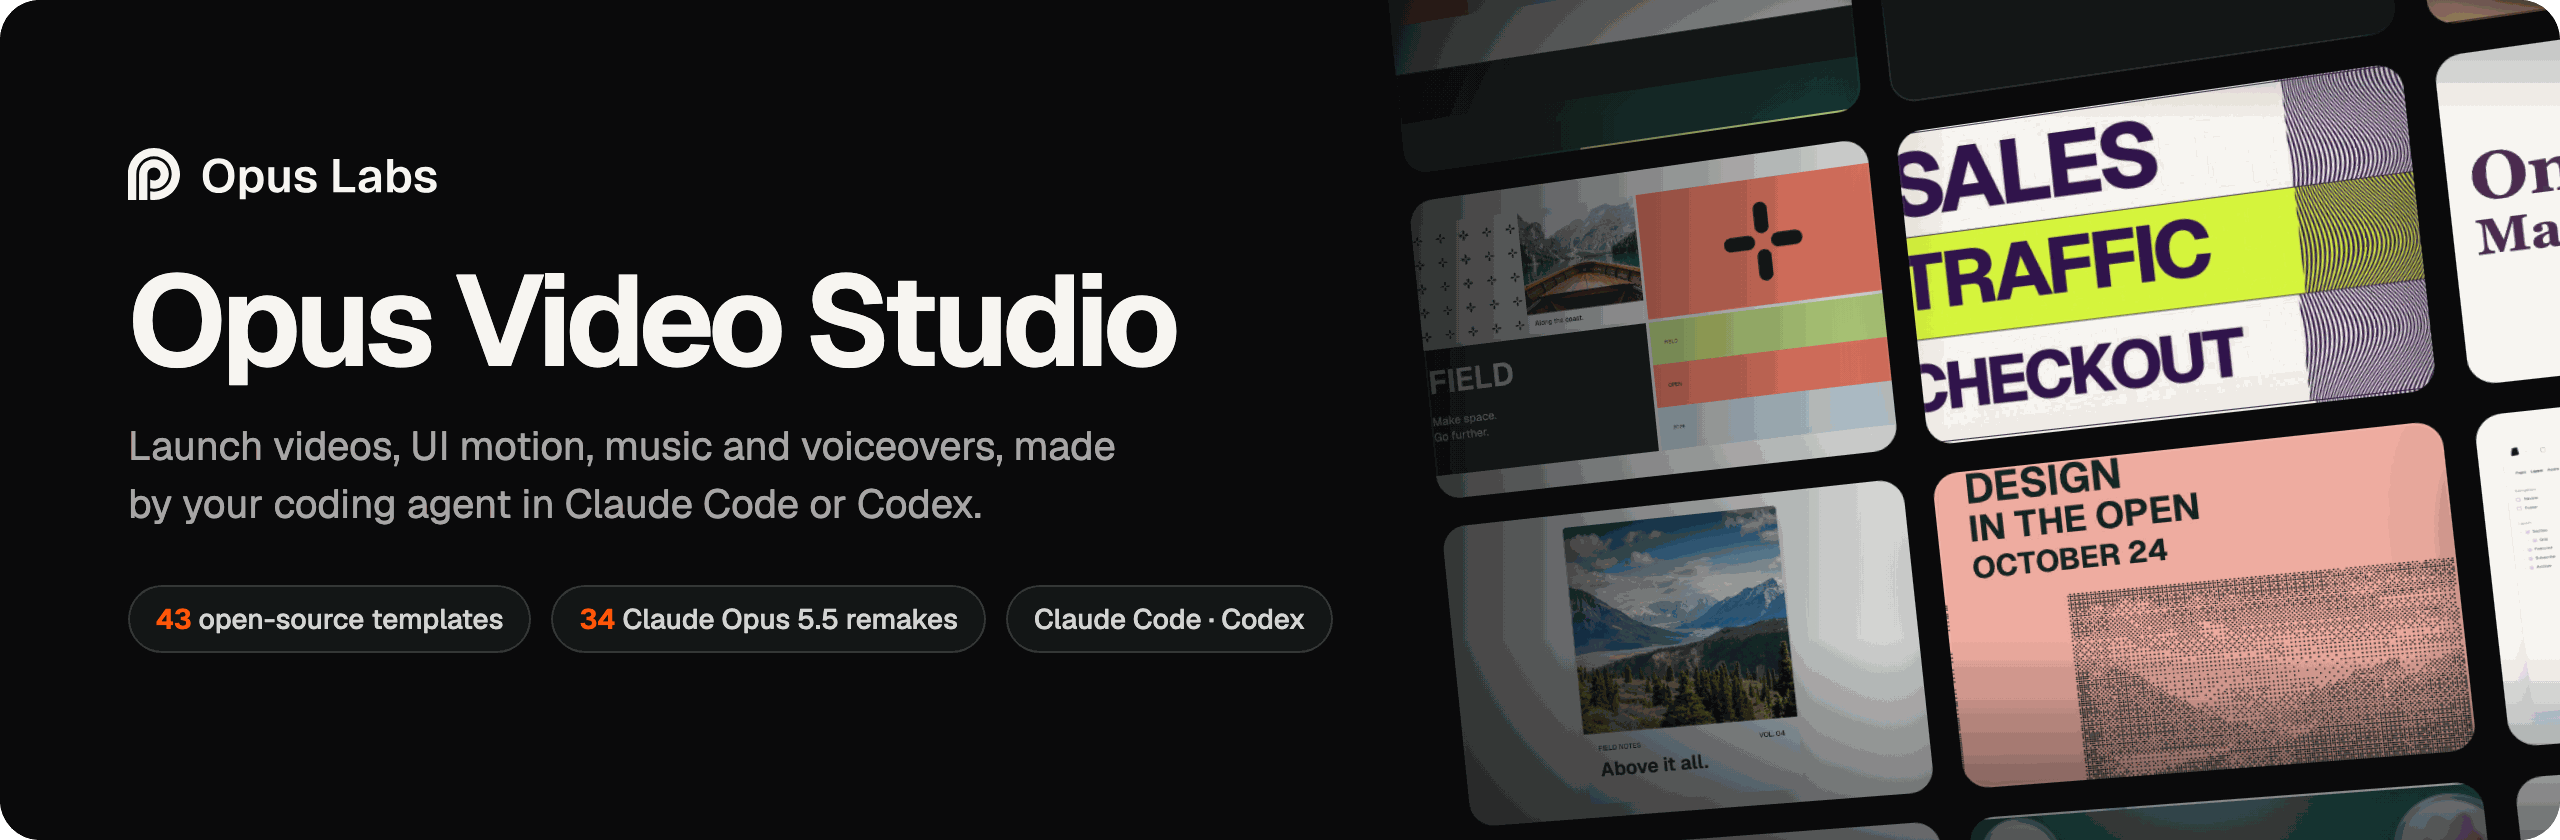
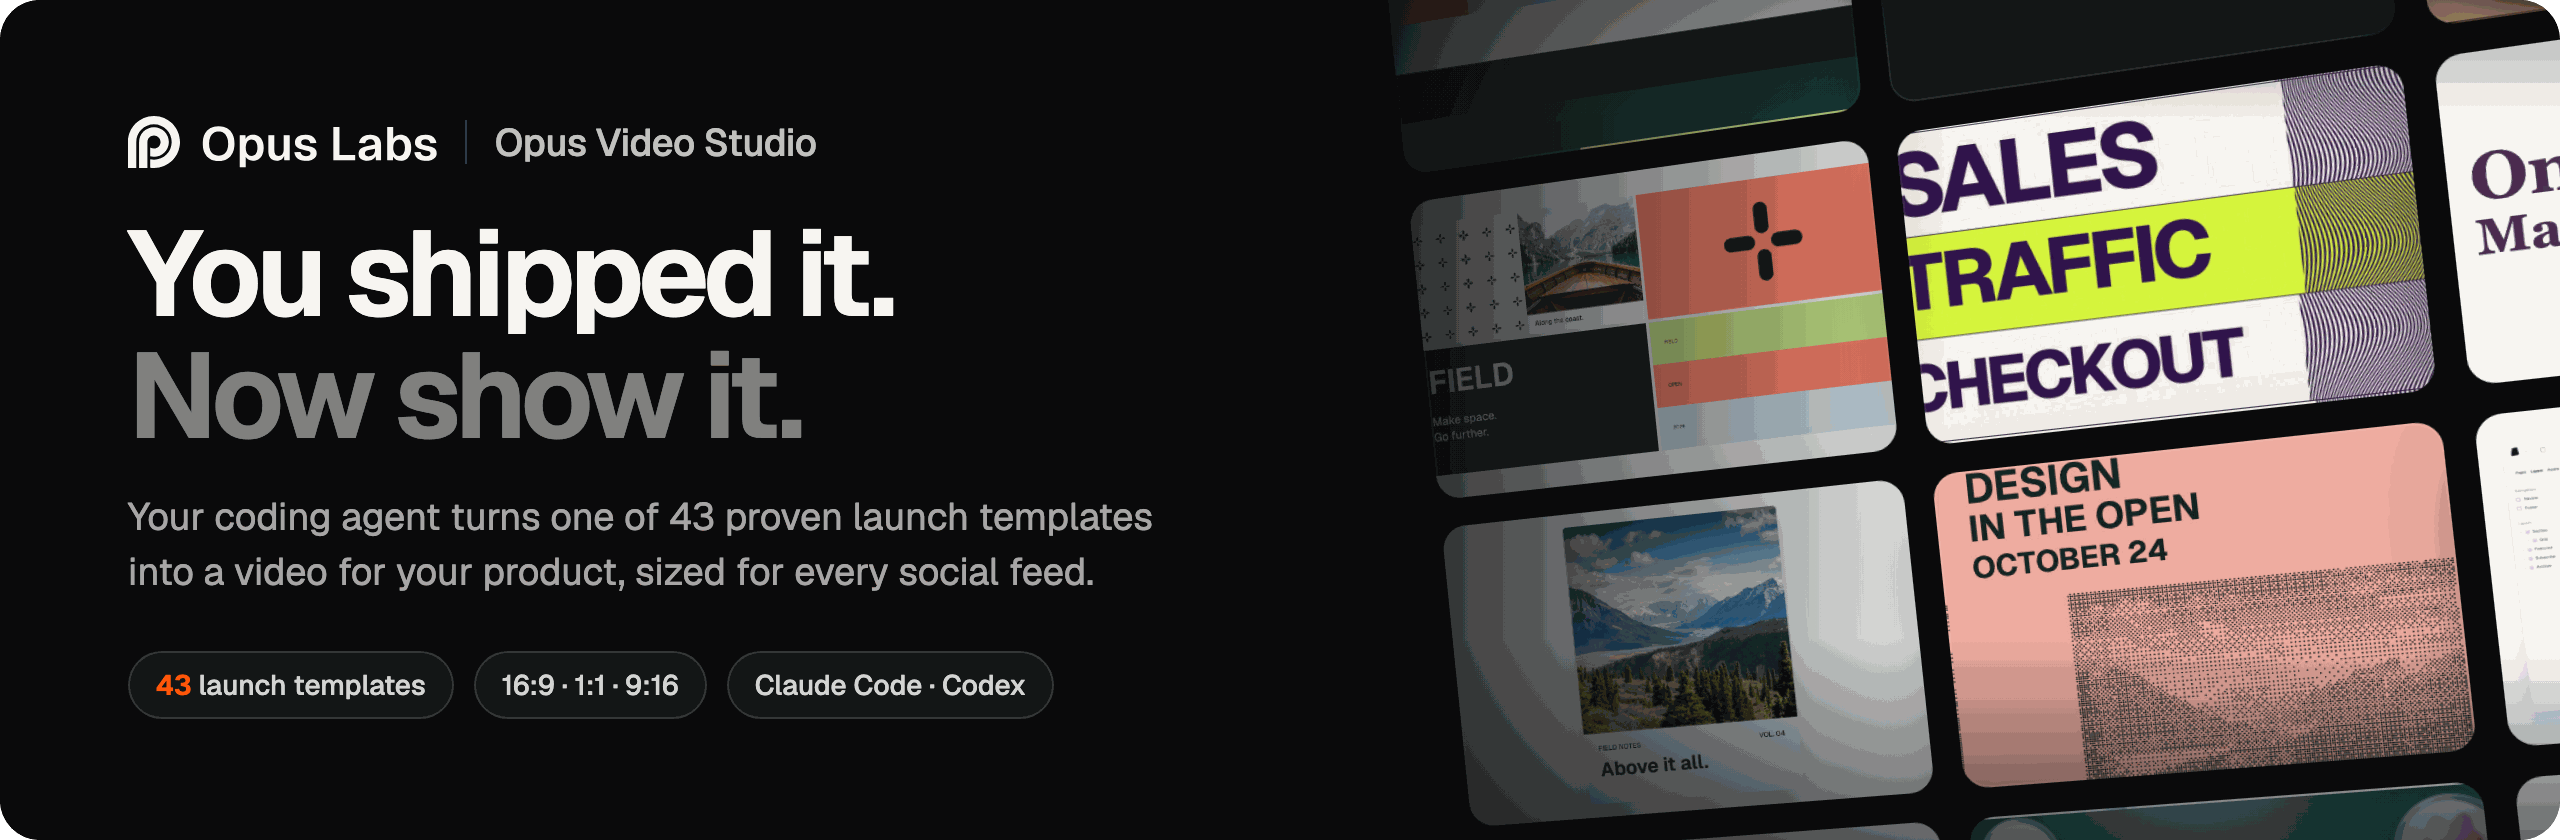
docs: lead the README with the social-launch pain point and the split-out components
- Banner and intro: "You shipped it. Now show it." Everyone knows a launch should go
  out on social; the hard part is the video.
- Three selling points: no video skills needed, ready-made down to the piece, every feed
  from one run.
- New "Or grab just the piece you need" row: logo reveals, headlines, showcases, product
  UI and data stories, with counts and links to each group in templates/README.md.
- The demo GIF uses the film's wording ("One run. Every feed.").

diff --git a/README.md b/README.md
@@ -1,5 +1,5 @@
 <p align="center">
-  <a href="https://labs.opus.pro"><img src=".github/assets/banner.png" alt="Opus Video Studio by Opus Labs: launch videos, UI motion, music and voiceovers made by your coding agent in Claude Code or Codex" width="100%"></a>
+  <a href="https://labs.opus.pro"><img src=".github/assets/banner.png" alt="Opus Video Studio by Opus Labs. You shipped it. Now show it. Your coding agent turns one of 43 proven launch templates into a video for your product, sized for every social feed." width="100%"></a>
 </p>
 
 <p align="center">
@@ -14,14 +14,21 @@
   <a href="remakes/opus-5.5/README.md">GPT-6 vs Claude Opus 5.5</a>
 </p>
 
-Opus Video Studio is a plugin for **Claude Code** and **Codex** that turns your coding agent into a video studio.
-Start from one of **43 open-source Remotion templates**, and your agent adapts the original source to your product
-and renders it on your machine. Voiceover, music, images and AI video clips come from the managed
-Opus Video Tools connection.
+**Everyone knows a launch should go out on social. The hard part is making the video.** Opus Video Studio handles
+that inside **Claude Code** and **Codex**: pick one of 43 open-source launch templates, and your coding agent adapts it
+to your product and renders it for every feed.
+
+<table>
+<tr>
+<td width="33%" valign="top"><b>No video skills needed</b><br><sub>Describe what you shipped in one sentence. Your agent edits the template's code, so there's no timeline to learn.</sub></td>
+<td width="33%" valign="top"><b>Ready-made, down to the piece</b><br><sub>9 full launch films and 34 components already split out: logo reveals, headlines, showcases, product UI, data stories. Use one as is or combine them.</sub></td>
+<td width="33%" valign="top"><b>Every feed from one run</b><br><sub>16:9 for X, YouTube and LinkedIn, 1:1 for feeds, and 9:16 for Reels, Shorts and TikTok, rendered on your machine.</sub></td>
+</tr>
+</table>
 
 <p align="center">
   <img src=".github/assets/demo.gif" alt="A Claude Code session with Opus Video Studio: one sentence asks for an Opus Labs logo reveal in three formats, the agent downloads and verifies the template, adapts it, and renders 16:9, 1:1 and 9:16 versions" width="100%"><br>
-  <sub>A real Claude Code session with the plugin, sped up. One sentence in, three formats out: 11 minutes, rendered locally, no paid media.</sub>
+  <sub>A real Claude Code session with the plugin, sped up. One sentence in, every feed out: 11 minutes, rendered locally, no paid media.</sub>
 </p>
 
 <p align="center">
@@ -48,10 +55,10 @@ codex plugin add opus-video-studio@opus-pro
 Then start a new session so the skills load. The [Claude Code](docs/claude-code-install-protocol.md) and
 [Codex](docs/codex-install-protocol.md) guides cover upgrades, Desktop, and signing in to the managed tools.
 
-**2. Ask for a video.** Pick a template in the [gallery](https://product-videos.labs.opus.pro/) or [below](#templates), then say what you want:
+**2. Ask for a video.** Pick a template in the [gallery](https://product-videos.labs.opus.pro/) or [below](#pick-a-template-for-your-launch), then say what you want:
 
 ```text
-Make a 20-second launch video for Acme (acme.com) from https://labs.opus.pro/product-videos/ai-research
+Make a 20-second launch video for Acme (acme.com) from https://labs.opus.pro/product-videos/ai-research, in 16:9 and 9:16
 ```
 
 ```text
@@ -99,10 +106,14 @@ Install Opus Video Studio by following https://github.com/opus-pro/opus-video-st
 
 For Codex, swap in `codex-install-protocol.md`.
 
-## Templates
+## Pick a template for your launch
 
-**9 full launch films and 34 motion components**, all editable source under the [MIT License](templates/LICENSE).
-Each keeps its original animation code, configuration, locked dependencies and asset notes. Click a poster to watch it.
+Every template is editable source under the [MIT License](templates/LICENSE), with its original animation code,
+locked dependencies and asset notes. Click a poster to watch it.
+
+### Full launch films
+
+Nine complete launch videos, each designed around a kind of product. Swap in your name, screens and colors.
 
 <table>
 <tr>
@@ -119,6 +130,21 @@ Each keeps its original animation code, configuration, locked dependencies and a
 <td width="33%" valign="top"><a href="https://opus-lab.cdn.opuslab.ai/labs/launch-videos/lite/website-builder-motion-template-lite-v3-1.0.0/preview.mp4"><img src=".github/assets/templates/website-builder.jpg" alt="Website Builder video demo" width="100%"></a><br><b><a href="templates/website-builder/">Website Builder</a></b><br><sub>Website and visual editors · 52 s</sub></td>
 <td width="33%" valign="top"><a href="https://opus-lab.cdn.opuslab.ai/labs/launch-videos/lite/tovo-motion-template-lite-1.0.0/preview.mp4"><img src=".github/assets/templates/tovo.jpg" alt="AI Meeting Assistant video demo" width="100%"></a><br><b><a href="templates/tovo/">AI Meeting Assistant</a></b><br><sub>Meeting notes and action items · 15 s</sub></td>
 <td width="33%" valign="top"><a href="https://opus-lab.cdn.opuslab.ai/labs/launch-videos/lite/numo-motion-template-lite-1.0.0/preview.mp4"><img src=".github/assets/templates/numo.jpg" alt="Analytics Dashboard video demo" width="100%"></a><br><b><a href="templates/numo/">Analytics Dashboard</a></b><br><sub>Data analytics · 15 s</sub></td>
+</tr>
+</table>
+
+### Or grab just the piece you need
+
+34 motion components, each split out as its own project, so you can drop a logo reveal into a video you already have
+or string a few together into a new one.
+
+<table>
+<tr>
+<td width="20%" valign="top"><a href="https://opus-lab.cdn.opuslab.ai/labs/launch-videos/lite/motion-component-pf-brand-clover-v1.0.0/preview.mp4"><img src=".github/assets/components/pf-brand-clover.jpg" alt="Logo Unfold Brand System component" width="100%"></a><br><b><a href="templates/README.md#brand-intros">Logo reveals</a></b><br><sub>9 brand intros</sub></td>
+<td width="20%" valign="top"><a href="https://opus-lab.cdn.opuslab.ai/labs/launch-videos/lite/motion-component-template-ribbon-manifesto-v1.0.0/preview.mp4"><img src=".github/assets/components/template-ribbon-manifesto.jpg" alt="Three-Ribbon Campaign component" width="100%"></a><br><b><a href="templates/README.md#titles-and-announcements">Headlines</a></b><br><sub>6 titles and announcements</sub></td>
+<td width="20%" valign="top"><a href="https://opus-lab.cdn.opuslab.ai/labs/launch-videos/lite/motion-component-pf-depth-swirl-v1.0.0/preview.mp4"><img src=".github/assets/components/pf-depth-swirl.jpg" alt="3D Depth Spiral component" width="100%"></a><br><b><a href="templates/README.md#showcase-and-portfolio">Showcases</a></b><br><sub>9 galleries, 3D and portfolios</sub></td>
+<td width="20%" valign="top"><a href="https://opus-lab.cdn.opuslab.ai/labs/launch-videos/lite/motion-component-pf-phone-carousel-v1.0.0/preview.mp4"><img src=".github/assets/components/pf-phone-carousel.jpg" alt="Three-Phone Carousel component" width="100%"></a><br><b><a href="templates/README.md#product-and-ui-demos">Product UI</a></b><br><sub>6 app and UI demos</sub></td>
+<td width="20%" valign="top"><a href="https://opus-lab.cdn.opuslab.ai/labs/launch-videos/lite/motion-component-template-case-numo-v1.0.0/preview.mp4"><img src=".github/assets/components/template-case-numo.jpg" alt="Anomaly to Action component" width="100%"></a><br><b><a href="templates/README.md#data-and-results">Data stories</a></b><br><sub>4 charts and results</sub></td>
 </tr>
 </table>
 
